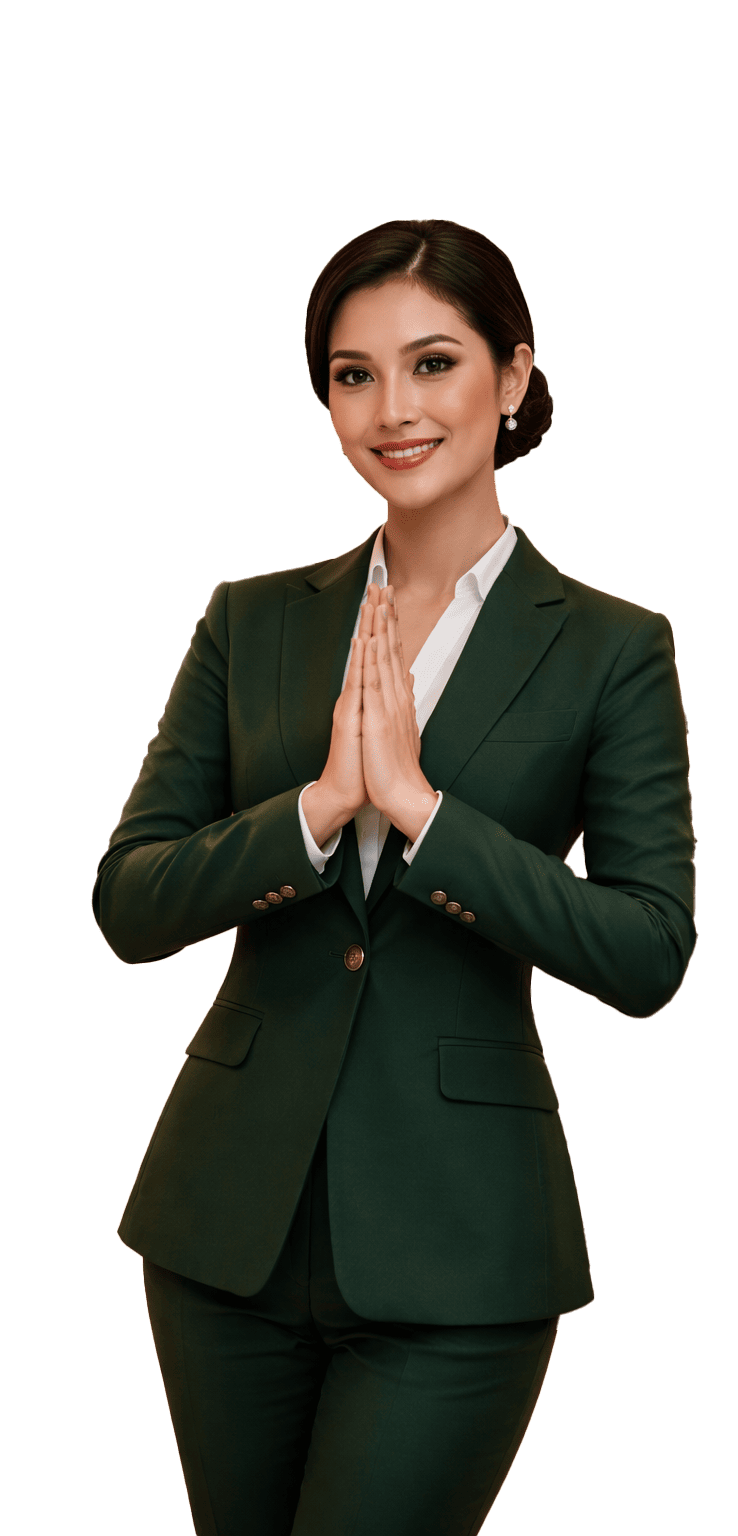
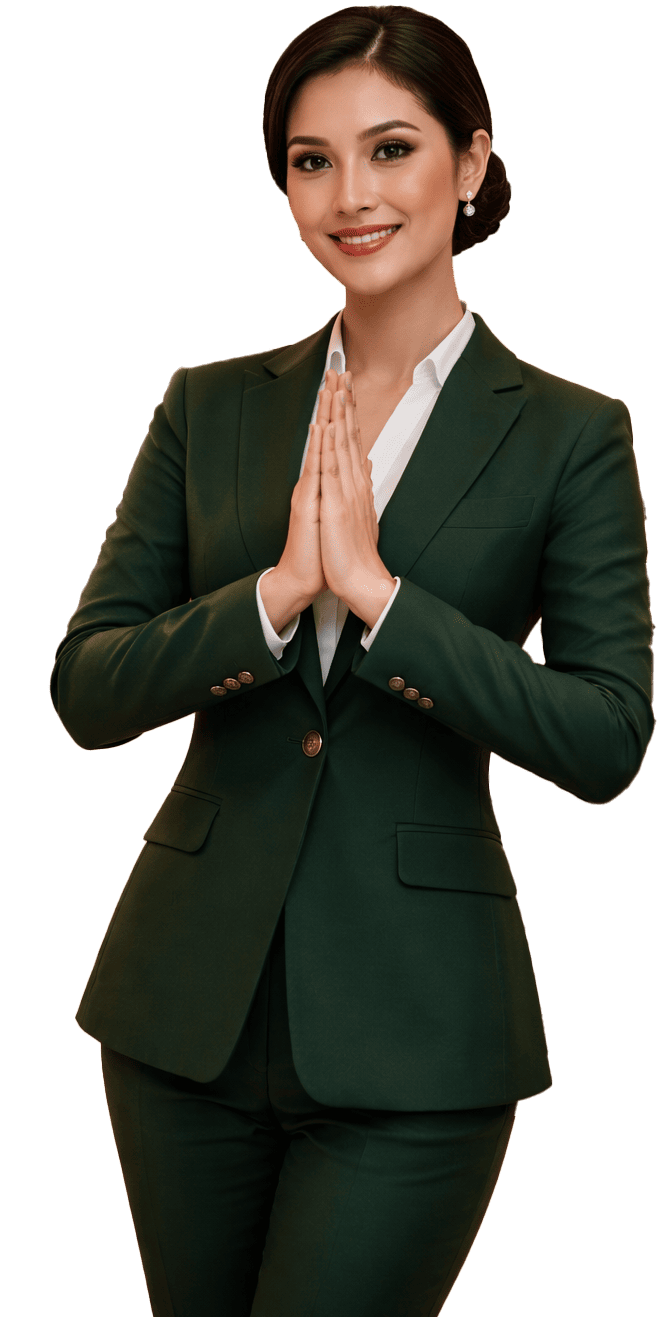
main

diff --git a/src/components/__global/FloatingWA.tsx b/src/components/__global/FloatingWA.tsx
@@ -52,7 +52,7 @@ const FloatingWA: React.FC = () => {
                         href="https://wa.me/6282277777911"
                         target="_blank"
                         rel="noopener noreferrer"
-                        className="relative w-[280px] h-[130px] bg-[#D9D9D9] rounded-[16px] flex items-center px-4 shadow-xl cursor-pointer block group overflow-visible"
+                        className="relative w-[190px] h-[85px] bg-[#D9D9D9] rounded-[12px] flex items-center px-3 shadow-xl cursor-pointer block group overflow-visible"
                     >
                         <button
                             onClick={handleClose}
@@ -61,28 +61,27 @@ const FloatingWA: React.FC = () => {
                         >
                             <FaTimes size={10} />
                         </button>
-                        {/* Text content */}
-                        <div className="z-10 w-[65%] h-full flex flex-col justify-center">
-                            <p className="text-[#334155] text-[10px] sm:text-[12px] font-semibold mb-1 leading-none">Selamat Datang</p>
-                            <h1 className="text-black text-[14px] sm:text-[16px] font-extrabold leading-[1.1] my-1">
+                        <div className="z-10 w-[60%] h-full flex flex-col justify-center">
+                            <p className="text-[#334155] text-[8px] font-semibold mb-0.5 leading-none">Selamat Datang</p>
+                            <h1 className="text-black text-[10px] sm:text-[11px] font-extrabold leading-tight my-0.5">
                                 Ada yang Prisil<br />bisa bantu?
                             </h1>
-                            <div className="text-[10px] sm:text-[12px] flex items-center text-[#494949] group-hover:text-[#003D35] transition-all leading-none mt-0.5">
+                            <div className="text-[7.5px] sm:text-[9px] flex items-center text-[#494949] group-hover:text-[#003D35] transition-all leading-none mt-0.5">
                                 Chat dengan Prisil <span className="ml-1">→</span>
                             </div>
 
-                            <div className="mt-2.5 flex items-center">
-                                <div className="relative flex items-center justify-center mr-2 w-[8px] h-[8px]">
+                            <div className="mt-1.5 flex items-center">
+                                <div className="relative flex items-center justify-center mr-1.5 w-[5px] h-[5px]">
                                     <span className="animate-ping absolute inline-flex h-full w-full rounded-full bg-[#0E6800] opacity-75"></span>
-                                    <span className="relative inline-flex rounded-full h-[6px] w-[6px] bg-[#0E6800]"></span>
+                                    <span className="relative inline-flex rounded-full h-[3px] w-[3px] bg-[#0E6800]"></span>
                                 </div>
-                                <span className="text-gray-700 text-[10px] sm:text-[12px] font-medium leading-none">Online</span>
+                                <span className="text-gray-700 text-[8px] sm:text-[10px] font-medium leading-none">Online</span>
                             </div>
                         </div>
 
                         {/* Character image */}
                         <div
-                            className="absolute right-0 bottom-0 w-[110px] sm:w-[130px] h-full pointer-events-none"
+                            className="absolute right-0 bottom-0 w-[80px] sm:w-[90px] h-full pointer-events-none"
                             style={{ clipPath: 'inset(-999px 0px 0px 0px)' }}
                         >
                             <div className="relative w-full h-full">

diff --git a/src/components/section_components/mainpage/Hero.tsx b/src/components/section_components/mainpage/Hero.tsx
@@ -8,7 +8,8 @@ let Hero: React.FC = () => {
   const words = [
     "Jam Tangan Mewah",
     "Logam Mulia",
-    "Perhiasan dan Batu Mulia",
+    "Perhiasan",
+    "Batu Mulia",
     "Tas Branded",
     "Kendaraan Premium",
     "Barang Kolektor"
@@ -32,14 +33,11 @@ let Hero: React.FC = () => {
         <Header />
 
         {/* --- MOBILE LAYOUT (Visible only on mobile) --- */}
-        <div className="md:hidden relative z-20 flex flex-col items-center pt-[120px] pb-16 px-6">
+        <div className="md:hidden relative z-20 flex flex-col items-center pt-[140px] pb-16 px-6">
           {/* Hero Title */}
-          <h1 className="text-3xl font-bold leading-snug text-center text-white">
-            Dapatkan Solusi Gadai
+          <h1 className="text-[26px] font-bold leading-tight text-center text-white">
+            Dapatkan Solusi Gadai{" "}
             <span className="text-switcher-container">
-              <span className="invisible h-0 overflow-hidden inline-block" aria-hidden="true">
-                {words.reduce((a, b) => a.length > b.length ? a : b)}
-              </span>
               {words.map((word, i) => {
                 const isActive = i === index;
                 const isExiting = i === prevIndex;
@@ -53,7 +51,7 @@ let Hero: React.FC = () => {
                   </span>
                 );
               })}
-            </span>
+            </span>{" "}
             untuk<br /> Aset Mewah Anda Dengan PUI
           </h1>
 
@@ -110,11 +108,8 @@ let Hero: React.FC = () => {
           {/* Hero Title */}
           <div className="absolute top-[120px] w-full flex justify-center z-20 px-4">
             <h1 className="text-4xl font-bold leading-snug text-center text-white">
-              Dapatkan Solusi Gadai
+              Dapatkan Solusi Gadai{" "}
               <span className="text-switcher-container">
-                <span className="invisible h-0 overflow-hidden inline-block" aria-hidden="true">
-                  {words.reduce((a, b) => a.length > b.length ? a : b)}
-                </span>
                 {words.map((word, i) => {
                   const isActive = i === index;
                   const isExiting = i === prevIndex;
@@ -128,7 +123,7 @@ let Hero: React.FC = () => {
                     </span>
                   );
                 })}
-              </span>
+              </span>{" "}
               untuk<br /> Aset Mewah Anda Dengan PUI
             </h1>
           </div>

diff --git a/src/components/__global/Footer.tsx b/src/components/__global/Footer.tsx
@@ -64,17 +64,15 @@ const Footer: React.FC<FooterProps> = ({
     const position: [number, number] = [-6.2449, 106.8023];
 
     return (
-        <footer id="kontak" className={`w-full mx-auto ${bgClass} ${isAttached ? "" : "px-0 md:px-4 pt-12 pb-4"} ${className}`}>
+        <footer id="kontak" className={`w-full mx-auto ${bgClass} ${isAttached ? "" : "px-0 md:px-4 pt-12 md:pb-4"} ${className}`}>
             
             {/* 1. Keamanan Section */}
             {showSecurity && (
                 <div
                     style={{
-                        borderTopLeftRadius: "48px",
-                        borderTopRightRadius: "48px",
                         background: "linear-gradient(135deg, rgb(0, 58, 48) 0%, rgb(0, 29, 24) 50%, rgb(0, 5, 4) 100%)",
                     }}
-                    className="w-full pt-16 pb-12 text-white"
+                    className="w-full md:max-w-7xl md:mx-auto pt-16 md:pb-12 text-white rounded-t-[24px] md:rounded-t-[48px]"
                 >
                     <div className="text-center mb-10 px-6">
                         <h1 className="text-2xl md:text-3xl mb-4 font-extrabold px-2">Didukung Standar Keamanan Tinggi</h1>
@@ -97,7 +95,7 @@ const Footer: React.FC<FooterProps> = ({
 
             {/* 2. Map Section with New Styled Card */}
             {showMap && (
-                <div className="w-full h-[600px] md:h-[500px] overflow-hidden relative">
+                <div className="w-full md:max-w-7xl md:mx-auto h-[600px] md:h-[500px] overflow-hidden relative">
                     <MapContainer
                         center={position}
                         zoom={17}
@@ -187,13 +185,11 @@ const Footer: React.FC<FooterProps> = ({
             {/* 3. Bottom Footer - Main Content */}
             <div
                 style={{
-                    borderBottomLeftRadius: isAttached ? "0" : "48px",
-                    borderBottomRightRadius: isAttached ? "0" : "48px",
                     background: "linear-gradient(135deg, rgb(0, 58, 48) 0%, rgb(0, 29, 24) 50%, rgb(0, 5, 4) 100%)",
                 }}
-                className={`w-full text-white pt-16 pb-8 px-6 md:px-16`}
+                className={`w-full md:max-w-7xl md:mx-auto text-white pt-16 md:pb-8 px-6 md:px-16 ${isAttached ? "" : "rounded-b-none md:rounded-b-[48px]"}`}
             >
-                <div className="grid grid-cols-1 md:grid-cols-4 gap-10 md:gap-12 mb-12">
+                <div className="grid grid-cols-1 md:grid-cols-4 gap-10 md:gap-12 md:mb-12">
                     {/* Brand & Address */}
                     <div className="flex flex-col">
                         <img className="w-[140px] md:w-[160px] mb-8" src="/assets/img/logo-pui.png" alt="PUI Logo" />
@@ -261,7 +257,7 @@ const Footer: React.FC<FooterProps> = ({
                 </div>
 
                 {/* Regulation Logos */}
-                <div className="flex flex-col md:flex-row items-center gap-4 md:gap-6 mb-12 border-t border-white/10 pt-10">
+                <div className="flex flex-col md:flex-row items-center gap-4 md:gap-6 md:mb-12 border-t border-white/10 pt-10">
                     <div className="flex items-center gap-4 p-3 bg-white/5 rounded-xl w-full md:w-auto">
                         <img width="50" src="/assets/img/logo-ojk.png" alt="OJK" />
                         <span className="text-[12px] font-medium">Terdaftar & diawasi OJK</span>

diff --git a/src/components/section_components/mainpage/Product.tsx b/src/components/section_components/mainpage/Product.tsx
@@ -47,14 +47,14 @@ let Product = function () {
                     untuk berbagai aset mewah, mulai <br className="hidden md:block" /> dari jam tangan premium, tas branded,
                     berlian, hingga emas dan perhiasan eksklusif.
                 </p>
-                <div className="grid grid-cols-2 md:grid-cols-3 gap-x-5 gap-y-16 md:gap-16">
+                <div className="grid grid-cols-2 md:grid-cols-3 gap-x-5 gap-y-6 md:gap-16">
                     {products.map((item, i) => (
                         <div
                             key={i}
-                            className={`product-card mb-36 md:mb-16 ${item.variant === "rare" ? "product-card-rare" : ""
+                            className={`product-card max-w-[170px] mx-auto md:max-w-none mb-0 md:mb-16 ${item.variant === "rare" ? "product-card-rare" : ""
                                 }`}
                         >
-                            <div className="bg-[#0000002d] border-t-[#0000002d] rounded-xl w-full h-32 md:h-44 flex items-center justify-center mb-4 md:mb-5 z-10 relative" style={{
+                            <div className="bg-[#0000002d] border-t-[#0000002d] rounded-xl w-full h-28 md:h-44 flex items-center justify-center mb-4 md:mb-5 z-10 relative" style={{
                                 borderBottomLeftRadius: "0px",
                                 borderBottomRightRadius: "0px"
                             }}>
@@ -73,14 +73,14 @@ let Product = function () {
                                     )}
                                 </div>
                             </div>
-                            <div className="p-2 mt-2 md:p-2 z-[100] text-left flex flex-col flex-grow relative">
-                                <h3 className="text-sm md:text-lg font-semibold mb-2 md:mb-3">
+                            <div className="p-1 mt-1 md:p-2 md:mt-2 z-[100] text-left flex flex-col flex-grow relative">
+                                <h3 className="text-sm md:text-lg font-semibold mb-1 md:mb-2">
                                     {item.title}
                                 </h3>
-                                <p className="text-[10px] md:text-sm text-gray-400 md:text-gray-300 mb-4 md:mb-6 line-clamp-3 md:line-clamp-none">
+                                <p className="text-[10px] md:text-sm text-gray-400 md:text-gray-300 mb-2 md:mb-3 line-clamp-3 md:line-clamp-none">
                                     {item.desc}
                                 </p>
-                                <button className="hover-premium-btn mt-auto text-[10px] md:text-sm border-2 border-[#5C5E3D] mb-2 md:mb-4 font-bold text-[#C49A6C] px-2 md:px-4 py-1.5 md:py-2 rounded-lg md:rounded-[15px] bg-[#C49A6C30]">
+                                <button className="hover-premium-btn mt-2 md:mt-auto text-[10px] md:text-sm border-2 border-[#5C5E3D] mb-1 md:mb-2 font-bold text-[#C49A6C] px-2 md:px-4 py-1.5 md:py-2 rounded-lg md:rounded-[15px] bg-[#C49A6C30]">
                                     Pelajari Selengkapnya
                                 </button>
                             </div>

diff --git a/src/components/section_components/mainpage/style/init.css b/src/components/section_components/mainpage/style/init.css
@@ -526,26 +526,28 @@
     position: relative;
     width: auto;
     transition: width 0.3s ease-in-out;
-    margin: 0 8px;
+    margin: 0 4px;
     vertical-align: middle;
-    top: -4px;
+    top: -2px;
 }
 
 .text-switcher-item {
-    position: absolute;
-    width: 100%;
     color: #B8945F;
     text-align: center;
+    white-space: nowrap;
     display: flex;
     justify-content: center;
-    white-space: nowrap;
 }
 
 .text-switcher-item.enter {
+    position: relative;
     animation: slide-up-in 0.5s forwards;
 }
 
 .text-switcher-item.exit {
+    position: absolute;
+    left: 0;
+    right: 0;
     animation: slide-up-out 0.5s forwards;
 }
 

diff --git a/src/components/section_components/carakerja/Consult.tsx b/src/components/section_components/carakerja/Consult.tsx
@@ -7,16 +7,16 @@ let Consult = function () {
         <div className="hero flex flex-col md:flex-row-reverse items-start md:items-end gap-0 md:gap-8 pt-0 pb-0 px-8 md:p-12 md:pb-0 text-left md:text-left isolate">
           <div className="hero-deco hidden md:block"></div>
           <div className="hero-img-wrap flex-shrink-0 w-full md:w-auto flex justify-end items-end relative z-0 md:z-10 pointer-events-none">
-            <div className="hero-person-placeholder relative h-[120px] md:h-[320px] translate-x-12 md:translate-x-0">
+            <div className="hero-person-placeholder relative h-[120px] md:h-[320px] overflow-visible">
               <img
-                className=" -mb-40 lg:-mb-56 md:p-2 sm:-mb-64 md:-mb-64 w-[280px] md:w-[340px] max-w-full h-auto object-contain pointer-events-none"
-                src="/assets/img/40d826a68f7b2fe6a3460b18c5d0de6a1118d609.png"
+                className="w-full h-auto pointer-events-none scale-75 md:scale-100 origin-bottom translate-x-16 translate-y-10 md:translate-x-10 md:translate-y-0 transition-transform duration-300"
+                src="/assets/img/Consult.png"
               />
             </div>
           </div>
 
-          <div className="mr-8 md:mr-0 lg:mr-0 md:-mb-5 lg:p-5 lg:mt-20 md:p-1 hero-content relative -mt-[310px] flex flex-col items-start w-full md:w-auto pb-10 md:pb-10 md:bottom-10">
-            <h6 className="text-[20px] lg:text-3xl md:text-[30px] font-bold text-white leading-snug md:leading-tight mb-4 md:mb-[14px] max-w-[190px] md:max-w-[320px] px-2 md:px-0">
+          <div className="mr-8 md:mr-0 lg:mr-0 md:-mb-5 lg:p-5 lg:mt-20 md:p-1 hero-content relative z-[50] md:z-10 -mt-[310px] flex flex-col items-start w-full md:w-[340px] pb-10 md:pb-10 md:bottom-10">
+            <h6 className="text-[20px] lg:text-3xl md:text-[30px] font-bold text-white leading-snug md:leading-tight mb-4 md:mb-[14px] max-w-[190px] md:max-w-full px-2 md:px-0">
               Punya barang mewah dan ingin dilikuidasi?
             </h6>
             <a className="text-xs lg:text-base md:text-sm text-white/70 mb-8 md:mb-7 leading-relaxed max-w-[260px] md:max-w-[280px]">

diff --git a/src/components/section_components/mainpage/Consult.tsx b/src/components/section_components/mainpage/Consult.tsx
@@ -7,16 +7,16 @@ let Consult = function () {
         <div className="hero flex flex-col md:flex-row-reverse items-start md:items-end gap-0 md:gap-8 pt-0 pb-0 px-8 md:p-12 md:pb-0 text-left md:text-left isolate">
           <div className="hero-deco hidden md:block"></div>
           <div className="hero-img-wrap flex-shrink-0 w-full md:w-auto flex justify-end items-end relative z-0 md:z-10 pointer-events-none">
-            <div className="hero-person-placeholder relative h-[120px] md:h-[320px] translate-x-12 md:translate-x-0">
+            <div className="hero-person-placeholder relative h-[120px] md:h-[320px] overflow-visible">
               <img
-                className=" -mb-40 lg:-mb-56 md:p-2 sm:-mb-64 md:-mb-64 w-[280px] md:w-[340px] max-w-full h-auto object-contain pointer-events-none"
-                src="/assets/img/40d826a68f7b2fe6a3460b18c5d0de6a1118d609.png"
+                className="w-full h-auto pointer-events-none scale-75 md:scale-[0.70] origin-bottom translate-x-[5.5rem] translate-y-10 md:translate-x-0 md:translate-y-0 transition-transform duration-300"
+                src="/assets/img/Consult.png"
               />
             </div>
           </div>
 
-          <div className="mr-8 md:mr-0 lg:mr-0 md:-mb-5 lg:p-5 lg:mt-20 md:p-1 hero-content relative z-[50] md:z-10 -mt-[310px] flex flex-col items-start w-full md:w-auto pb-10 md:pb-10 md:bottom-10">
-            <h6 className="text-[20px] lg:text-3xl md:text-[30px] font-bold text-white leading-snug md:leading-tight mb-4 md:mb-[14px] max-w-[190px] md:max-w-[320px] px-2 md:px-0">
+          <div className="mr-8 md:mr-0 lg:mr-0 md:-mb-5 lg:p-5 lg:mt-20 md:p-1 hero-content relative z-[50] md:z-10 -mt-[310px] flex flex-col items-start w-full md:w-[340px] pb-10 md:pb-10 md:bottom-10">
+            <h6 className="text-[20px] lg:text-3xl md:text-[30px] font-bold text-white leading-snug md:leading-tight mb-4 md:mb-[14px] max-w-[190px] md:max-w-full px-2 md:px-0">
               Punya barang mewah dan ingin dilikuidasi?
             </h6>
             <a className="text-xs lg:text-base md:text-sm text-white/70 mb-8 md:mb-7 leading-relaxed max-w-[260px] md:max-w-[280px]">

diff --git a/src/components/section_components/mainpage/Proccess.tsx b/src/components/section_components/mainpage/Proccess.tsx
@@ -1,23 +1,23 @@
 let Proccess = function () {
   return (
-    <section 
+    <section
       style={{
         background: "linear-gradient(rgba(0,0,0,0.6), rgba(0,0,0,0.6)), url('/assets/img/9e0218ad745918733fdd97792224e9033eb1d6f6.png')",
         backgroundRepeat: "no-repeat",
         backgroundPosition: "top center",
         backgroundSize: "cover"
-      }} 
+      }}
       className="relative process-section py-12 md:py-20 px-6 text-white"
     >
       <div className="max-w-4xl mx-auto mt-20 text-center">
-        
+
         <p className="text-sm md:text-2xl tracking-[0.18em] mb-2">How it works</p>
         <h2 className="text-3xl md:text-7xl font-bold mb-4 leading-tight">
           Proses Pencairan Cepat
         </h2>
 
         <p className="text-sm md:text-base max-w-2xl mx-auto mb-16 opacity-90">
-          Ubah aset berharga Anda menjadi likuiditas dengan proses yang cepat, aman, dan terpercaya. 
+          Ubah aset berharga Anda menjadi likuiditas dengan proses yang cepat, aman, dan terpercaya.
           Kami memastikan pengalaman yang mudah dengan hasil maksimal serta ketenangan bagi Anda.
         </p>
         <div className="flex flex-col items-center gap-6 md:flex-row md:items-start md:justify-center md:gap-10 mb-14">

diff --git a/src/components/section_components/mainpage/style/product.css b/src/components/section_components/mainpage/style/product.css
@@ -49,8 +49,14 @@
 }
 
 .product-card-rare img {
-  width: 160px;
+  width: 100px;
   transform: scale(1.1);
+}
+
+@media (min-width: 768px) {
+  .product-card-rare img {
+    width: 160px;
+  }
 }
 
 .hover-premium-btn {

diff --git a/src/components/section_components/artikel/dummy/MainPost.tsx b/src/components/section_components/artikel/dummy/MainPost.tsx
@@ -31,7 +31,7 @@ let MainPost = function () {
                         <p className="text-sm md:text-gray-300 mb-5 max-w-xl line-clamp-2 text-gray-200">
                             Ubah koleksi bernilai menjadi likuiditas optimal dengan dokumentasi yang tepat dan terstruktur.
                         </p>
-                        <a href="#" className="flex items-center gap-2 text-[#00A294] font-bold text-sm group/btn">
+                        <a href="/artikel/lorem-ipsum-is-simple" className="flex items-center gap-2 text-[#00A294] font-bold text-sm group/btn">
                             Read More 
                             <i className="fa-solid fa-arrow-right text-xs transform group-hover/btn:translate-x-2 transition-transform"></i>
                         </a>

diff --git a/src/components/section_components/mainpage/ConsultCard.tsx b/src/components/section_components/mainpage/ConsultCard.tsx
@@ -23,7 +23,7 @@ let Consult = function () {
 
           <div className="hero-img-wrap">
             <div className="hero-person-placeholder">
-              <img className="-mb-44" src="/assets/img/main/40d826a68f7b2fe6a3460b18c5d0de6a1118d609.png" />
+              <img className="-mb-44" src="/assets/img/main/Consult.png" />
             </div>
           </div>
         </div>

diff --git a/src/components/section_components/mainpage/Cpages.tsx b/src/components/section_components/mainpage/Cpages.tsx
@@ -86,4 +86,4 @@ let Cpages: React.FC = function () {
     </>
   );
 };
-export {Cpages};
+export { Cpages };